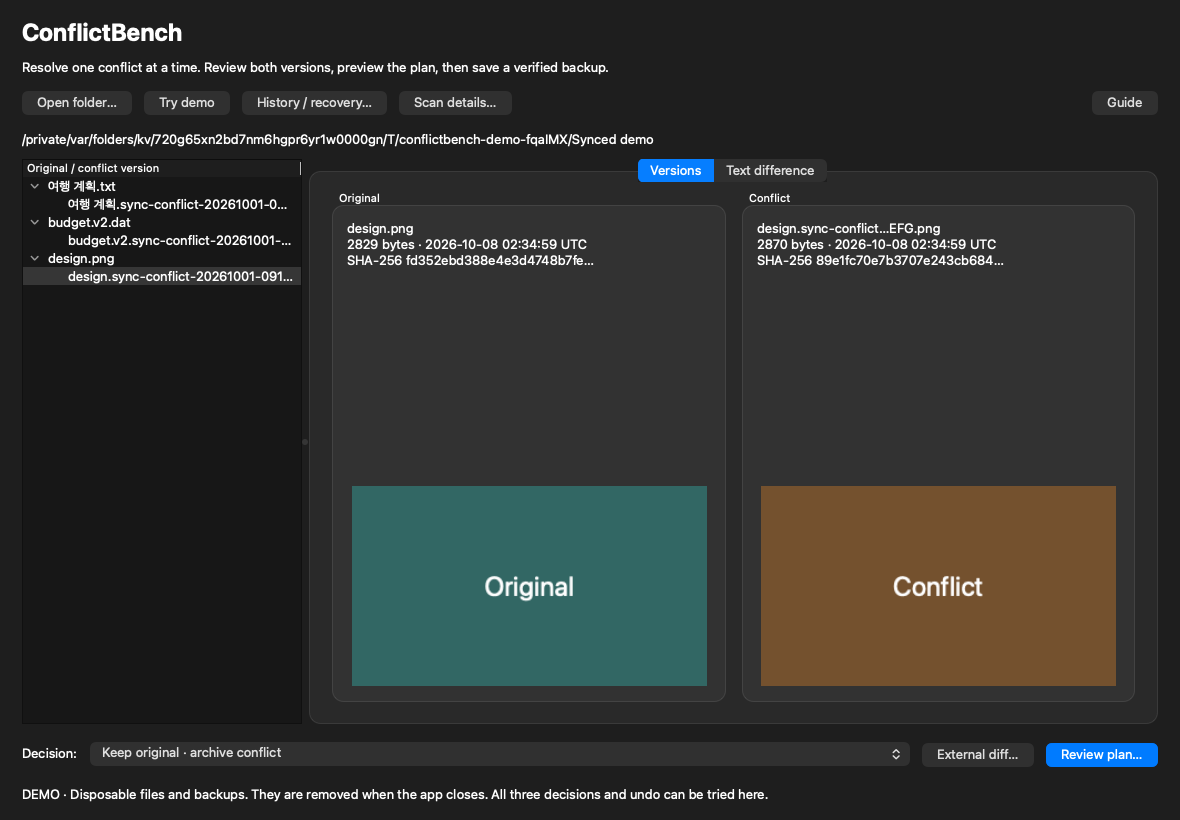
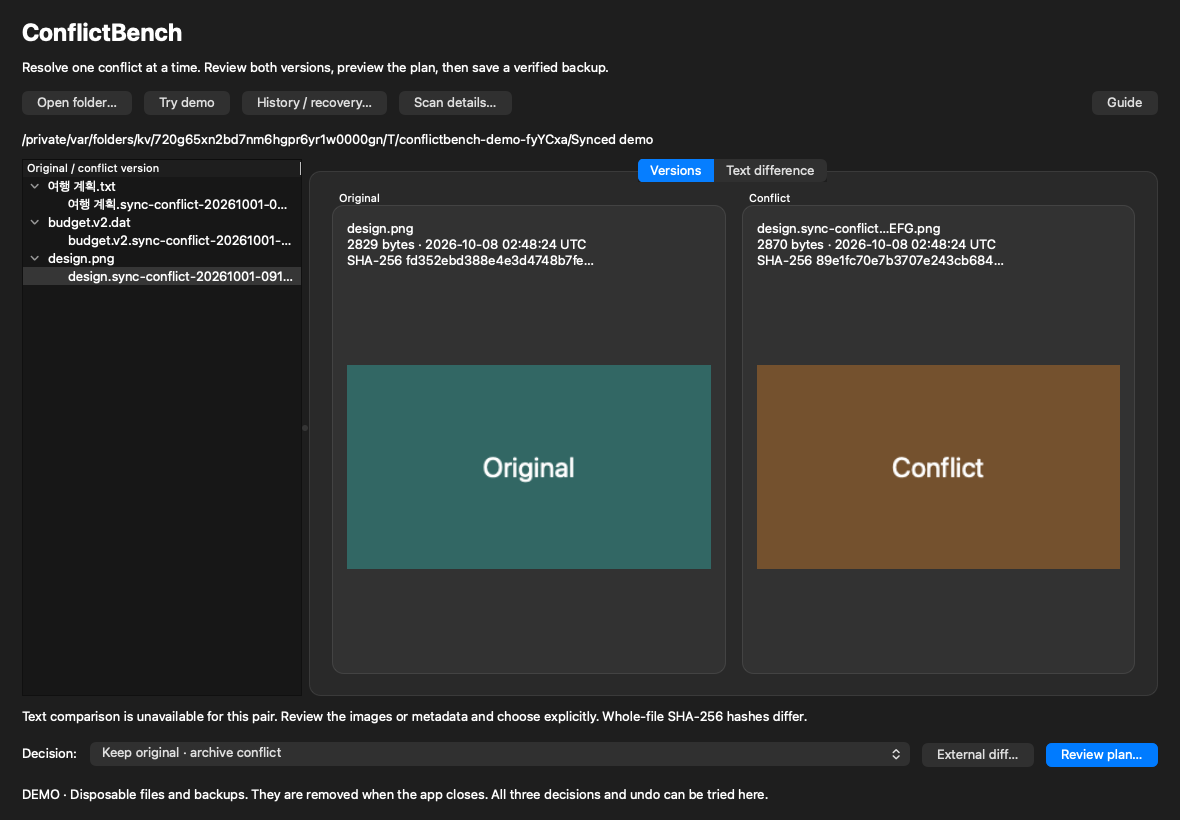
Fix clean packages and make partial comparisons explicit

diff --git a/src/workbench.cpp b/src/workbench.cpp
@@ -8,6 +8,7 @@
 #include <functional>
 using namespace conflictbench;
 namespace {
+constexpr qint64 inlinePreviewBytes = 1024 * 1024;
 class FitImageLabel final : public QLabel {
     QPixmap image_;
     void fit() { if(!image_.isNull()) QLabel::setPixmap(image_.scaled(contentsRect().size(), Qt::KeepAspectRatio, Qt::SmoothTransformation)); }
@@ -110,6 +111,7 @@ Workbench::Workbench(QWidget *parent) : QMainWindow(parent) {
     previewColumn("Original",&leftInfo_,&leftText_,&leftImage_);
     previewColumn("Conflict",&rightInfo_,&rightText_,&rightImage_);
     tabs_->addTab(versions,"&Versions"); diff_=editor("Text difference"); tabs_->addTab(diff_,"&Text difference"); split->addWidget(tabs_); split->setStretchFactor(1,1); split->setSizes({280,860}); layout->addWidget(split,1);
+    comparisonScope_=label(); comparisonScope_->setObjectName("comparisonScope"); comparisonScope_->setAccessibleName("Comparison scope"); comparisonScope_->hide(); layout->addWidget(comparisonScope_);
     auto *decision=new QHBoxLayout;
     auto *actionLabel=label("&Decision:"); action_=new QComboBox; action_->setObjectName("decision"); action_->setAccessibleName("Resolution decision");
     action_->addItems({"Keep original · archive conflict","Use conflict · replace original","Keep both · give conflict a new name"});
@@ -167,18 +169,18 @@ void Workbench::createDemo() {
 void Workbench::showPair() {
     if(busy_)return;
     int index=pairIndex();review_->setEnabled(index>=0);external_->setEnabled(index>=0);
-    leftInfo_->clear();rightInfo_->clear();leftText_->clear();rightText_->clear();diff_->clear();leftImage_->hide();rightImage_->hide();leftText_->show();rightText_->show();
+    leftInfo_->clear();rightInfo_->clear();leftText_->clear();rightText_->clear();diff_->clear();leftImage_->hide();rightImage_->hide();leftText_->show();rightText_->show();comparisonScope_->clear();comparisonScope_->hide();
     if(index<0)return;
     auto pair=scan_.pairs[index];leftInfo_->setText(metadata(pair.original));rightInfo_->setText(metadata(pair.conflict));
     leftInfo_->setToolTip(pair.original.path+"\nSHA-256 "+pair.original.sha256.toHex());
     rightInfo_->setToolTip(pair.conflict.path+"\nSHA-256 "+pair.conflict.sha256.toHex());
     busy_=true;centralWidget()->setEnabled(false);
-    auto previews=work<QPair<Preview,Preview>>(this,"Verifying preview hashes…",[&](const Options&o){return qMakePair(preview(pair.original,1024*1024,o),preview(pair.conflict,1024*1024,o));});
+    auto previews=work<QPair<Preview,Preview>>(this,"Verifying preview hashes…",[&](const Options&o){return qMakePair(preview(pair.original,inlinePreviewBytes,o),preview(pair.conflict,inlinePreviewBytes,o));});
     busy_=false;centralWidget()->setEnabled(true);
     if(!previews.first.error.isEmpty() || !previews.second.error.isEmpty()) {diff_->setPlainText(previews.first.error+"\n"+previews.second.error+"\nReopen the folder to scan again.");review_->setEnabled(false);external_->setEnabled(false);return;}
     QString left,right;bool leftIsText=textContent(previews.first.bytes,&left),rightIsText=textContent(previews.second.bytes,&right);
     auto render=[&](const Preview &p,bool isText,const QString &text,QPlainTextEdit *edit,QLabel *img) {
-        if(isText){edit->setLineWrapMode(QPlainTextEdit::NoWrap);edit->setPlainText(text+(p.truncated?"\n[Preview truncated at 1 MiB]":""));return;}
+        if(isText){edit->setLineWrapMode(QPlainTextEdit::NoWrap);edit->setPlainText((p.truncated?"[Partial preview: first 1 MiB only; remaining content is not shown.]\n\n":"")+text);return;}
         // Decode only a bounded image; malformed/huge inputs fall back to metadata.
         QBuffer buffer;buffer.setData(p.bytes);buffer.open(QIODevice::ReadOnly);QImageReader reader(&buffer);QImageReader::setAllocationLimit(32);
         QSize size=reader.size();
@@ -190,7 +192,25 @@ void Workbench::showPair() {
         edit->setPlainText("Binary or unsupported text encoding.\n\nUse metadata or an external viewer to inspect it, then choose a decision explicitly.\n\nNo automatic winner is inferred from size or date.");
     };
     render(previews.first,leftIsText,left,leftText_,leftImage_);render(previews.second,rightIsText,right,rightText_,rightImage_);
-    diff_->setPlainText(leftIsText&&rightIsText ? lineDiff(left,right) : "A text diff is unavailable for this pair. Review the images or metadata and choose explicitly.");
+    const bool partial=previews.first.truncated || previews.second.truncated;
+    QString scope;
+    if(partial) {
+        scope="Partial preview: at least one file exceeds 1 MiB. Inline text difference is unavailable because remaining content is not shown. Review both complete files before deciding.";
+        diff_->setLineWrapMode(QPlainTextEdit::WidgetWidth);
+        diff_->setPlainText(scope+"\n\nMatching visible text does not establish identical files. Use External diff for complete snapshots up to 16 MiB per file, or inspect larger files in a trusted viewer.");
+    } else if(leftIsText && rightIsText) {
+        const bool tooManyLines=left.count('\n')>=1200 || right.count('\n')>=1200;
+        scope=tooManyLines ? "Complete text previews are available. Inline text difference is unavailable above 1,200 lines per version; review Versions or use External diff."
+                           : "Text previews and inline text difference cover both complete files.";
+        diff_->setLineWrapMode(QPlainTextEdit::NoWrap);
+        diff_->setPlainText(lineDiff(left,right));
+    } else {
+        scope="Text comparison is unavailable for this pair. Review the images or metadata and choose explicitly.";
+        diff_->setLineWrapMode(QPlainTextEdit::WidgetWidth);
+        diff_->setPlainText("A text diff is unavailable for this pair. Review the images or metadata and choose explicitly.");
+    }
+    scope += pair.original.sha256==pair.conflict.sha256 ? " Whole-file SHA-256 hashes are identical." : " Whole-file SHA-256 hashes differ.";
+    comparisonScope_->setText(scope);comparisonScope_->show();
 }
 QString Workbench::chooseBackup() {
     if(!backupRoot_.isEmpty())return backupRoot_;
@@ -201,6 +221,7 @@ void Workbench::review() {
     Plan p=plan(scan_.pairs[index],Action(action_->currentIndex()),backup);
     if(!p.error.isEmpty()){QMessageBox::warning(this,"Plan unavailable",p.error);backupRoot_.clear();return;}
     QDialog dialog(this);dialog.setWindowTitle("Review transaction plan");dialog.setObjectName("planDialog");dialog.resize(720,540);auto *layout=new QVBoxLayout(&dialog);
+    auto *scope=label(comparisonScope_->text()+"\nThis decision applies to the whole files, including any content not displayed.");scope->setObjectName("planComparisonScope");scope->setAccessibleName("Plan comparison scope");layout->addWidget(scope);
     auto *text=editor("Transaction plan");text->setPlainText(p.description+"\n\nOriginal: "+p.pair.original.path+"\nConflict: "+p.pair.conflict.path+"\nBackup folder: "+p.backupRoot+(p.keepBothPath.isEmpty()?"":"\nKeep-both destination: "+p.keepBothPath)+"\n\nOriginal SHA-256: "+p.pair.original.sha256.toHex()+"\nConflict SHA-256: "+p.pair.conflict.sha256.toHex()+"\n\nOnly this selected conflict is resolved. Other versions remain.\nThis operation has recorded stages, not an atomic multi-file guarantee. On interruption, use History / recovery.");layout->addWidget(text);
     auto *paused=new QCheckBox("I paused Syncthing for this folder and closed all other file writers.");paused->setObjectName("pauseAcknowledgment");layout->addWidget(paused);
     auto *privateBackup=new QCheckBox("The backup folder is private, local, and outside ALL synced folders.");privateBackup->setObjectName("backupAcknowledgment");layout->addWidget(privateBackup);

diff --git a/tests/gui_tests.cpp b/tests/gui_tests.cpp
@@ -106,6 +106,7 @@ struct ReviewObservation {
     bool sawInformation = false;
     bool captureSaved = true;
     QString planText;
+    QString comparisonScope;
     QStringList messages;
 };
 
@@ -136,10 +137,13 @@ ReviewObservation driveReview(Workbench &window, bool commit,
         auto *privateBackup = dialog->findChild<QCheckBox *>("backupAcknowledgment");
         auto *button = dialog->findChild<QPushButton *>("commit");
         auto *planText = dialog->findChild<QPlainTextEdit *>("Transaction plan");
-        observed.controlsPresent = paused && privateBackup && button && planText;
+        auto *scope = dialog->findChild<QLabel *>("planComparisonScope");
+        observed.controlsPresent = paused && privateBackup && button && planText && scope && scope->isVisible();
         if (!observed.controlsPresent) { dialog->reject(); return; }
         observed.planText = planText->toPlainText();
-        observed.captureSaved = captureSyntheticWidget(*dialog, "plan");
+        observed.comparisonScope = scope->text();
+        observed.captureSaved = captureSyntheticWidget(*dialog,
+            scope->text().startsWith("Partial preview") ? "partial-plan" : "plan");
         observed.initialDisabled = !button->isEnabled();
         paused->setChecked(true);
         observed.pauseOnlyDisabled = !button->isEnabled();
@@ -387,6 +391,58 @@ private slots:
         QVERIFY(named<QPlainTextEdit>(window, "Text difference")->toPlainText()
                     .contains("Reopen the folder to scan again"));
         QCOMPARE(contents(original), bytes);
+    }
+
+    void truncatedTextNeverPresentsMatchingPrefixAsCompleteDifference() {
+        Workbench window;
+        window.show();
+        window.createDemo();
+        const QString root = demoRoot(window);
+        const QString original = QDir(root).filePath(QString::fromUtf8("여행 계획.txt"));
+        const QString conflict = QDir(root).filePath(
+            QString::fromUtf8("여행 계획.sync-conflict-20261001-091530-ABCDEFG.txt"));
+        QByteArray sharedPrefix(1024 * 1024, 'a');
+        // The prefix has fewer than 1,200 lines, so the line-count diff limit
+        // cannot hide a regression in the independent 1 MiB byte limit.
+        for (int i = 1023; i < sharedPrefix.size(); i += 1024) sharedPrefix[i] = '\n';
+        QVERIFY(overwrite(original, sharedPrefix + "OLD\n"));
+        QVERIFY(overwrite(conflict, sharedPrefix + "NEW\n"));
+        const auto before = directorySnapshot(QFileInfo(root).dir().absolutePath());
+        window.scanFolder(root);
+        auto *tree = named<QTreeWidget>(window, "conflicts");
+        auto *selected = version(window, QString::fromUtf8("여행 계획.txt"));
+        QVERIFY(tree && selected);
+        tree->setCurrentItem(selected);
+        auto *left = named<QPlainTextEdit>(window, "Original text preview");
+        auto *right = named<QPlainTextEdit>(window, "Conflict text preview");
+        auto *diff = named<QPlainTextEdit>(window, "Text difference");
+        auto *scope = named<QLabel>(window, "comparisonScope");
+        QVERIFY(left && right && diff && scope);
+        QVERIFY(left->toPlainText().startsWith("[Partial preview: first 1 MiB"));
+        QVERIFY(right->toPlainText().startsWith("[Partial preview: first 1 MiB"));
+        QVERIFY(!left->toPlainText().contains("OLD"));
+        QVERIFY(!right->toPlainText().contains("NEW"));
+        QVERIFY(diff->toPlainText().contains("Inline text difference is unavailable"));
+        QVERIFY(diff->toPlainText().contains("remaining content is not shown"));
+        QVERIFY(!diff->toPlainText().contains("--- original"));
+        QVERIFY(scope->isVisible());
+        QVERIFY(scope->text().contains("Partial preview"));
+        QVERIFY(scope->text().contains("Whole-file SHA-256 hashes differ"));
+        auto *tabs = window.findChild<QTabWidget *>();
+        QVERIFY(tabs);
+        tabs->setCurrentWidget(diff);
+        QVERIFY(diff->isVisible() && scope->isVisible());
+        QVERIFY(captureSyntheticWidget(window, "partial-text-difference"));
+
+        const auto observed = driveReview(window, false);
+        QVERIFY(!observed.timedOut && observed.sawPlan && observed.controlsPresent);
+        QVERIFY(observed.captureSaved);
+        QVERIFY(observed.comparisonScope.contains("Partial preview"));
+        QVERIFY(observed.comparisonScope.contains("1 MiB"));
+        QVERIFY(observed.comparisonScope.contains("Whole-file SHA-256 hashes differ"));
+        QVERIFY(observed.comparisonScope.contains("decision applies to the whole files"));
+        QCOMPARE(directorySnapshot(QFileInfo(root).dir().absolutePath()), before);
+        QVERIFY(history(demoBackups(root)).isEmpty());
     }
 
     void committingLastScanEntryRescansWithoutStaleSelection() {

diff --git a/packaging/assemble_release.py b/packaging/assemble_release.py
@@ -2,10 +2,12 @@
 """Collect tested archives plus complete application/Qt source and checksums."""
 import argparse
 import json
+import os
 from pathlib import Path
 import re
 import shutil
 import subprocess
+import tarfile
 from prepare_sources import QT_SOURCE_NAME, QT_SOURCE_SHA256, sha256
 
 
@@ -34,6 +36,31 @@ def main():
         raise RuntimeError("Qt corresponding source checksum mismatch")
     shutil.copy2(qt_source, args.output / qt_source.name)
     subprocess.run(["git", "archive", "--format=tar.gz", f"--prefix=ConflictBench-{version}/", f"--output={args.output / ('ConflictBench-' + version + '-source.tar.gz')}", "HEAD"], check=True)
+    # Preserve small safety/installed-test evidence beyond CI artifact retention.
+    evidence_files = {}
+    for system in ("macos-15", "windows-2022", "ubuntu-24.04"):
+        logs = list((args.artifacts / f"test-log-{system}").rglob("LastTest.log"))
+        if len(logs) != 1:
+            raise RuntimeError(f"Expected one test log for {system}, found {len(logs)}")
+        evidence_files[f"{system}-LastTest.log"] = logs[0]
+    for name in ("gitleaks.json", "dependency-evidence.json", "diskfull-evidence.jsonl"):
+        matches = list(args.artifacts.rglob(name))
+        if len(matches) != 1:
+            raise RuntimeError(f"Expected one {name}, found {len(matches)}")
+        evidence_files[name] = matches[0]
+    if json.loads(evidence_files["gitleaks.json"].read_text(encoding="utf-8")):
+        raise RuntimeError("Secret-scan report has unresolved findings")
+    evidence_manifest = {
+        "commit": commit, "version": version,
+        "workflow_url": f"https://github.com/{os.environ.get('GITHUB_REPOSITORY', 'rad1092/conflictbench')}/actions/runs/{os.environ.get('GITHUB_RUN_ID', 'local')}",
+        "files": {name: sha256(path) for name, path in evidence_files.items()},
+        "scope": "Synthetic core/GUI tests, actual Linux ENOSPC, secret scan and mapped dependency advisories. Installed archive smoke results are in the linked workflow. These checks are not a universal safety guarantee."
+    }
+    evidence_path = args.output / f"ConflictBench-{version}-verification.json"
+    evidence_path.write_text(json.dumps(evidence_manifest, indent=2) + "\n", encoding="utf-8")
+    with tarfile.open(args.output / f"ConflictBench-{version}-verification-logs.tar.gz", "w:gz") as archive:
+        for name, path in evidence_files.items():
+            archive.add(path, arcname=name)
     checksums = "".join(f"{sha256(path)}  {path.name}\n" for path in sorted(args.output.iterdir()) if path.is_file() and path.name != "SHA256SUMS")
     (args.output / "SHA256SUMS").write_text(checksums, encoding="utf-8")
     print(f"Release assets prepared for {commit}, version {version}")

diff --git a/packaging/package.py b/packaging/package.py
@@ -122,12 +122,16 @@ def package(args):
             for path in app.rglob("*"):
                 if path.is_file() and not path.is_symlink() and (path.suffix in {".dylib", ""}):
                     result = subprocess.run(["otool", "-L", str(path)], capture_output=True, text=True)
-                    if result.returncode == 0 and re.search(r"/(?:opt/homebrew|usr/local|Users|Applications/Qt)/", result.stdout):
+                    # otool prints the input's absolute path as a header, including
+                    # for non-object resources. Only indented dependency records
+                    # describe load paths that must be relocatable.
+                    if result.returncode == 0 and re.search(r"^[ \t]+/(?:opt/homebrew|usr/local|Users|Applications/Qt)/", result.stdout, re.MULTILINE):
                         raise RuntimeError(f"Nonrelocatable dependency: {path}\n{result.stdout}")
     elif system == "Windows":
         executable = stage / "bin" / "ConflictBench.exe"
         plugins = copy_plugins(qt_plugins, stage / "bin", system)
         run(qt_bin / "windeployqt.exe", "--release", "--no-plugins", "--no-translations", "--no-compiler-runtime",
+            "--skip-plugin-types", "generic,networkinformation,tls",
             "--no-system-d3d-compiler", "--no-system-dxc-compiler", "--no-opengl-sw", "--no-ffmpeg",
             "--dir", stage / "bin", executable, *plugins)
         vswhere = Path(os.environ["ProgramFiles(x86)"]) / "Microsoft Visual Studio" / "Installer" / "vswhere.exe"

diff --git a/src/workbench.h b/src/workbench.h
@@ -31,7 +31,7 @@ private:
     std::unique_ptr<QTemporaryDir> demo_;
     QTreeWidget *tree_;
     QPlainTextEdit *leftText_, *rightText_, *diff_;
-    QLabel *leftInfo_, *rightInfo_, *leftImage_, *rightImage_, *folder_, *status_;
+    QLabel *leftInfo_, *rightInfo_, *leftImage_, *rightImage_, *folder_, *status_, *comparisonScope_;
     QTabWidget *tabs_;
     QComboBox *action_;
     QPushButton *review_, *external_;

diff --git a/docs/NATIVE-GUI.md b/docs/NATIVE-GUI.md
@@ -8,20 +8,20 @@ used.
 
 | Run | Result | Duration |
 | --- | --- | --- |
-| Native Cocoa, default scale | 12 passed, 0 failed, 0 skipped | 3.220 s |
-| Native Cocoa, `QT_SCALE_FACTOR=2` | 12 passed, 0 failed, 0 skipped | 3.654 s |
-| Offscreen regression | 12 passed, 0 failed, 0 skipped | 0.705 s |
+| Native Cocoa, default scale | 13 passed, 0 failed, 0 skipped | 6.279 s |
+| Native Cocoa, `QT_SCALE_FACTOR=2` | 13 passed, 0 failed, 0 skipped | 4.529 s |
+| Offscreen regression | 13 passed, 0 failed, 0 skipped | 0.846 s |
 
 The count includes QtTest initialization and cleanup. These are working-tree
-checks based on `e2b76e148443dd878efa4ae5d3d6e365413924e0` plus the GUI harness,
-UI, and core fixes under review; the release workflow must verify the final
-commit separately. The final local run was at 02:35 UTC with source SHA-256:
+checks based on `bebe83e50f31002bdc2d29c4e414bd5b65e0761c` plus the partial-preview
+safety UI fix under review; the release workflow must verify the final
+commit separately. The final local run was at 02:48 UTC with source SHA-256:
 
 | Source | SHA-256 |
 | --- | --- |
[6 lines of base64/hex data omitted]
 
 The accompanying screenshot files preserve the result of this run, not a claim
 about later builds.
@@ -41,6 +41,14 @@ path, and checks that review remains enabled. This covers the stale selection
 index found when Linux sorted the Korean filename last; it does not rely on an
 OS-specific filename sort order.
 
+A partial-preview regression uses equal-size files with an identical 1 MiB
+prefix and different `OLD` / `NEW` tails. The prefix has only 1,024 newlines,
+so the independent 1,200-line limit cannot conceal the byte-limit regression.
+The test checks that inline diff is refused, the whole-file hashes differ,
+both tabs retain a visible scope warning, and the final plan explicitly says
+the decision affects undisplayed content. Cancel preserves all source and
+backup directory hashes and creates no receipt.
+
 ## Captures
 
 The optional `CB_GUI_CAPTURE_DIR` environment variable saves only a synthetic
@@ -54,11 +62,15 @@ no images. Each capture logs its pixel size and device pixel ratio.
 - [Plan and initially disabled commit](screenshots/cocoa-plan.png): 720 × 540, DPR 1.
 - [Committed receipt and disabled undo](screenshots/cocoa-history.png): 850 × 520, DPR 1.
 - [Text at Qt scale factor 2](screenshots/cocoa-text-scale2.png): 1920 × 1200, DPR 2.
+- [Partial preview cannot imply a complete comparison](screenshots/cocoa-partial-text-difference.png): 1180 × 820, DPR 1.
+- [Partial scope remains visible in the final plan](screenshots/cocoa-partial-plan.png): 720 × 540, DPR 1.
 
-All six refreshed captures were visually inspected. Both image versions now fit
+All eight refreshed captures were visually inspected. Both image versions now fit
 inside their preview panes; binary guidance wraps and is fully readable; long
 metadata filenames are deliberately elided with the full value in a tooltip.
-Long plan paths remain horizontally scrollable. The scale-2 run
+Long plan paths remain horizontally scrollable. The comparison-scope label fits
+below both tabs and above the plan contents, including with partial previews.
+The scale-2 run
 reported Qt window-placement warnings when a requested logical window exceeded
 the available screen area, but all workflow assertions passed. This checks
 Qt's scaled rendering and interaction, not moving a physical window between

diff --git a/docs/FINAL-SAFETY-REVIEW.md b/docs/FINAL-SAFETY-REVIEW.md
@@ -31,7 +31,7 @@ Other destructive undo windows were inspected. A possibly restored conflict is a
 
 Code inspection found that the Windows branch refused alternate data streams but did not inspect NTFS extended attributes. These are different metadata facilities: [FindFirstStreamW](https://learn.microsoft.com/en-us/windows/win32/api/fileapi/nf-fileapi-findfirststreamw) enumerates `$DATA` streams, while [FILE_EA_INFORMATION](https://learn.microsoft.com/en-us/windows-hardware/drivers/ddi/ntifs/ns-ntifs-_file_ea_information) reports application-specific extended attributes. A practical example is [WSL permission metadata](https://learn.microsoft.com/en-us/windows/wsl/file-permissions), including `$LXUID`, `$LXGID` and `$LXMOD`. A byte-only replacement does not preserve those values.
 
-With the implementation owner's coordination, this reviewer added a fail-closed query on the already opened identity handle. It requests `FILE_READ_EA` and uses the documented [NtQueryInformationFile](https://learn.microsoft.com/en-us/windows-hardware/drivers/ddi/ntifs/nf-ntifs-ntqueryinformationfile) with [FileEaInformation, value 7](https://learn.microsoft.com/en-us/windows-hardware/drivers/ddi/wdm/ne-wdm-_file_information_class). The function is resolved only from already loaded system `ntdll.dll`. There is no DLL search, privilege enabling or fallback that ignores a failed query. A missing API, failed/short result, or nonzero EA size refuses the file before mutation. Every subsequent snapshot repeats that inspection.
+With the implementation owner's coordination, this reviewer added a fail-closed query on the already opened identity handle. It requests `FILE_READ_EA` and uses the documented [NtQueryInformationFile](https://learn.microsoft.com/en-us/windows-hardware/drivers/ddi/ntifs/nf-ntifs-ntqueryinformationfile) with [FileEaInformation, value 7](https://learn.microsoft.com/en-us/windows-hardware/drivers/ddi/wdm/ne-wdm-_file_information_class). The function is resolved only from already loaded system `ntdll.dll`. There is no DLL search, privilege enabling or fallback that ignores a failed query. If the function is missing, the result fails or is too short, or the EA size is nonzero, the file is refused before mutation. Every subsequent snapshot repeats that inspection.
 
 `windowsExtendedAttributesRefused` adds a synthetic EA using the native equivalent of [ZwSetEaFile](https://learn.microsoft.com/en-us/windows-hardware/drivers/ddi/ntifs/nf-ntifs-zwseteafile), then checks original and conflict separately, both before scanning and after reviewing a plan. It asserts refusal and unchanged main bytes, with no transaction created. This test is Windows-only. **The reviewer implemented this patch; it is not independently runtime-validated by the macOS result.** Successful Windows compilation and execution are release gates.
 

diff --git a/docs/BUILDING.md b/docs/BUILDING.md
@@ -4,8 +4,9 @@ ConflictBench is a C++17 / Qt Widgets application. The application has no Python
 runtime dependency; the Python scripts below only assemble and verify releases.
 Use CMake 3.24 or newer, a C++17 compiler, and shared Qt Core, Gui, Widgets,
 Concurrent, and Test. CMake accepts Qt 6.8 or newer. Release packages pin Qt
-**6.11.2**, the current stable patch selected for this release, to include its
-security and quality fixes. See [Qt's release announcement](https://www.qt.io/blog/qt-6.11.2-released).
+**6.11.2**, the selected 6.11 patch release, to include its security and quality
+fixes. See [Qt's release announcement](https://www.qt.io/blog/qt-6.11.2-released).
+This is an exact dependency pin, not a claim to ship the newest Qt minor series.
 
 ## Build
 
@@ -101,6 +102,8 @@ and tests an extracted application. The Linux job additionally launches the
 archive in a clean container with only documented system dependencies. Logs,
 packages, source notices, and secret-scan results are retained as CI artifacts.
 The Gitleaks binary has a fixed version and independently checked SHA-256.
+The single reviewed historical prose false positive has an exact fingerprint
+exception, documented in [SECRET-SCAN-REVIEW](SECRET-SCAN-REVIEW.md).
 Dependency checks enforce pinned actions, source hashes, and module scope, and
 query the public OSV database for advisories mapped to the exact Qtbase and ICU
 source commits. Results retain the query and check date. OSV's commit coverage
@@ -115,6 +118,11 @@ contains three platform archives, full application source for that exact commit,
 unmodified Qtbase corresponding source, manifests, and `SHA256SUMS`. Review the
 draft and checksums before publishing. A failed platform prevents release
 assembly. No signing credentials are requested or stored.
+
+Release assets also preserve the small core/GUI logs, actual ENOSPC evidence,
+redacted secret-scan result and dependency report, with a verification manifest
+linking the exact workflow. This keeps the supporting evidence available after
+temporary CI artifacts expire.
 
 Test-generated folders and caches are ignored. Delete `build/`, `package-work/`,
 `release-sources/`, and `dist/` after preserving the small reports and published

diff --git a/docs/DISKFULL.md b/docs/DISKFULL.md
@@ -15,6 +15,10 @@ In both cases `execute()` must report failure, never `committed`. Original and c
 
 This is a real Linux capacity failure test, not evidence of Windows/macOS disk-full behavior or of whole-transaction atomicity. It does not simulate power loss, physical media faults, inode exhaustion, quotas, or hostile concurrent writers. Other safety and crash tests cover their explicitly named cases. The helper's native fill records errno; Qt's returned error text is recorded independently, since diagnostic strings may differ by Qt version. The original backup and durable-stage assertions ensure an unrelated early failure cannot pass.
 
+## Observed CI evidence
+
+The Ubuntu 24.04 job for commit `bebe83e50f31002bdc2d29c4e414bd5b65e0761c` passed both scenarios on 2026-10-08. Its [public job log](https://github.com/rad1092/conflictbench/actions/runs/37718776547/job/113121421731) records a 2,097,152-byte tmpfs, native errno 28, zero available bytes before reserving headroom, and `diskfull_suite_passed` with two scenarios. Backup and destination failures retained `backing_up` and `writing_destination`, respectively; both recovered to `undone` with unchanged source witnesses. This records the disk-full step specifically: the overall job later failed its separate clean-container smoke because GLib was missing from the documented runtime dependency list.
+
 ## Build and CI integration
 
 Inside the existing `if(BUILD_TESTING)` block, add a Linux-only helper target:

diff --git a/docs/SECRET-SCAN-REVIEW.md b/docs/SECRET-SCAN-REVIEW.md
@@ -1,0 +1,19 @@
+# Secret-scan finding review
+
+CI run [37718776547](https://github.com/rad1092/conflictbench/actions/runs/37718776547)
+reported one Gitleaks 8.30.1 `generic-api-key` finding at
+`docs/FINAL-SAFETY-REVIEW.md:34`, commit
+`bebe83e50f31002bdc2d29c4e414bd5b65e0761c`.
+
+The line is prose explaining refusal when a Windows native function is missing
+or an extended-attribute query fails. It contains public Microsoft documentation
+links and ordinary English, not a credential, token, or synthetic secret.
+The redacted scanner report's match begins with the word “API” followed by a
+comma; the following failure-description prose was misclassified as its value.
+
+`.gitleaksignore` contains only this commit/file/rule/line fingerprint, using
+[Gitleaks' documented fingerprint mechanism](https://github.com/gitleaks/gitleaks#-gitleaksignore).
+No whole commit, path, rule, or pattern is excluded. The current paragraph was
+rephrased to avoid repeating the ambiguous wording. Every other finding still
+fails CI, and the complete repository history continues to be scanned with
+redacted output.

diff --git a/docs/GUI-TESTS.md b/docs/GUI-TESTS.md
@@ -28,6 +28,10 @@ Covered behavior:
 - A same-size edit after scanning invalidates the preview and disables review
   and external diff. A same-size edit while the plan is open is rejected at
   commit, preserves the changed original, and leaves all conflicts unresolved.
+- Equal-size files with the same first 1 MiB and different tails cannot appear
+  completely compared: truncated text refuses inline diff, warns above the
+  decision controls and final plan, and reports different whole-file hashes.
+  Cancelling that plan preserves every source and backup hash.
 - Opening a second synthetic sync folder after the demo requires a new backup
   selection. It cannot silently reuse the demo's disposable backup directory.
 - Selecting a synthetic non-executable file as the external tool reports launch

diff --git a/packaging/RELEASE-NOTES.md b/packaging/RELEASE-NOTES.md
@@ -15,3 +15,7 @@ The source archive and exact, unmodified Qtbase 6.11.2 corresponding source are
 provided alongside the binaries. GPL/LGPL and third-party notices are included.
 CI tests synthetic data; they do not establish safety for every filesystem or
 recreate subsequent changes made by other devices.
+
+The verification manifest links the exact release workflow. The verification
+log archive preserves core/GUI tests, actual Linux disk-full recovery evidence,
+and the secret/dependency reports beyond temporary CI artifact retention.
